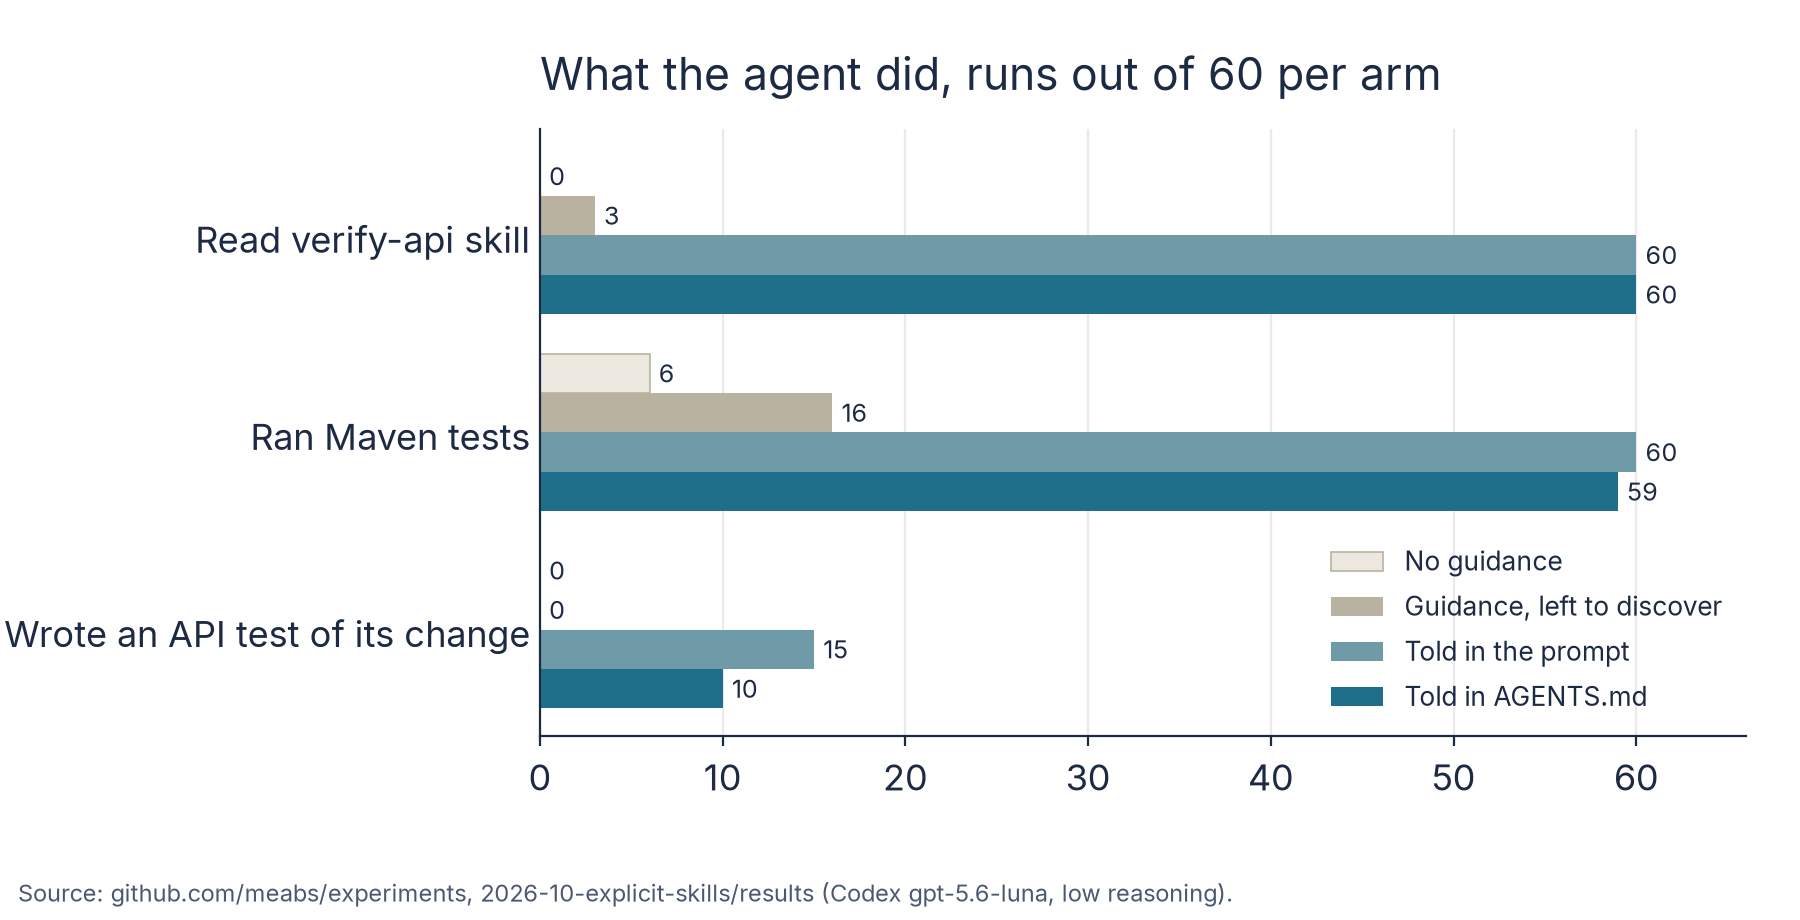
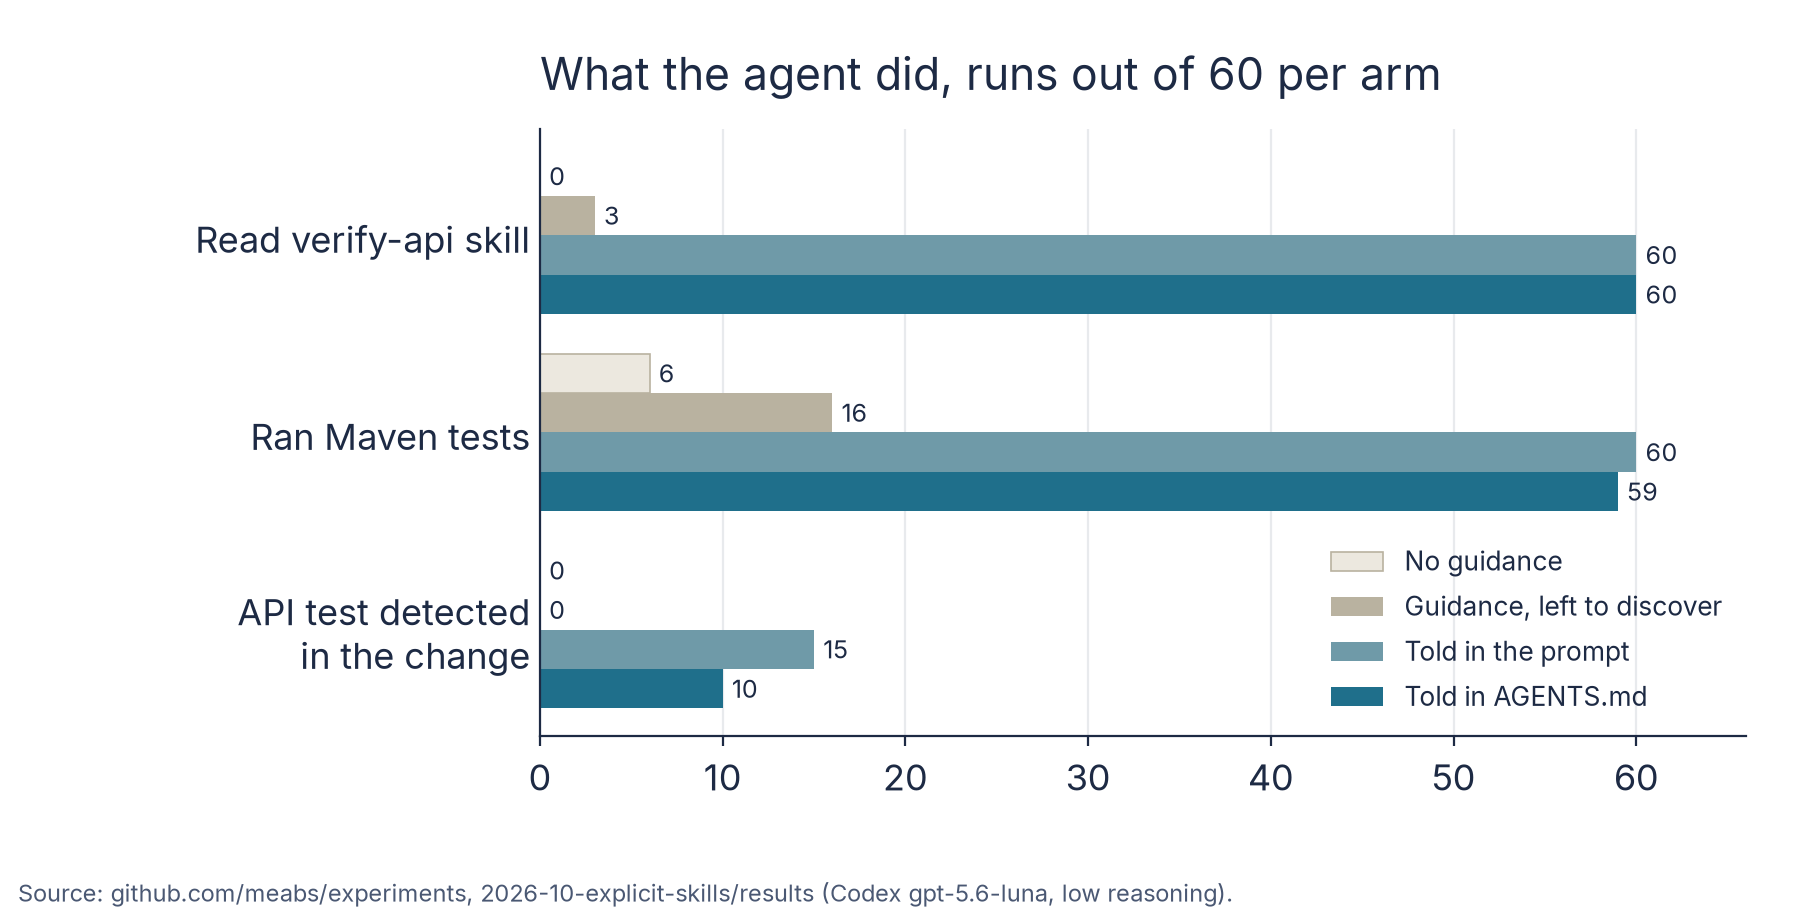
ESK: lead with reading vs doing, add cross-experiment chart, soften prompt vs AGENTS.md wording, label test counts as detected
Claude-Session: https://claude.ai/code/session_01DfQb985kHgrnPbscsHCh7U

Changed region(s): [[0.0, 0.6391, 0.3111, 0.7304]]

diff --git a/src/content/experiments/explicit-skills.md b/src/content/experiments/explicit-skills.md
@@ -1,12 +1,12 @@
 ---
 title: "Telling the agent to use its skills (experiment ESK)"
-description: "Told to use the repository's skills, the agent read them every time, but mostly ran a smoke test instead of testing its change; its changes were correct a little more often, not measurably, at about twice the cost."
+description: "Told to use the repository's skills, the agent read them every time, but mostly ran a smoke test instead of testing its change. Reading an instruction is not the same as carrying it out."
 date: 2026-10-22
-summary: "On 20 tasks in a Java online-shop backend, telling Codex to use its repository skills, in the prompt or in AGENTS.md, made it read the verification skill in every run (against 3 of 60 when left to find it) and raised the pass rate from 37 to 42 or 43 of 60, too little to rule out chance."
+summary: "On 20 tasks in a Java online-shop backend, telling Codex to use its repository skills, in the prompt or in AGENTS.md, made it read the verification skill in every run (against 3 of 60 when left to find it), but a test of its change was detected in only 10 to 15 runs; the pass rate rose from 37 to 42 or 43 of 60, too little to rule out chance."
 type: "Controlled trial"
 github:
   - label: "experiments"
-    href: "https://github.com/meabs/experiments/tree/b753910ec4d5e9439c81731c1b9f81e95b1c7842/2026-10-explicit-skills"
+    href: "https://github.com/meabs/experiments/tree/65df2e973c3c136c9489e896e8dab48fd96ce2af/2026-10-explicit-skills"
 draft: false
 experimentId: "ESK"
 question: "With the same repository guidance in place, does telling the agent to use its skills, in the prompt or in AGENTS.md, raise the share of changes that pass independent acceptance tests?"
@@ -18,14 +18,25 @@ agents:
     settings: "low reasoning, isolation on"
 runs: 240
 repo: "https://github.com/meabs/experiments"
-report: "https://github.com/meabs/experiments/blob/b753910ec4d5e9439c81731c1b9f81e95b1c7842/2026-10-explicit-skills/REPORT.md"
-prediction: "https://github.com/meabs/experiments/blob/b753910ec4d5e9439c81731c1b9f81e95b1c7842/2026-10-explicit-skills/README.md"
+report: "https://github.com/meabs/experiments/blob/65df2e973c3c136c9489e896e8dab48fd96ce2af/2026-10-explicit-skills/REPORT.md"
+prediction: "https://github.com/meabs/experiments/blob/65df2e973c3c136c9489e896e8dab48fd96ce2af/2026-10-explicit-skills/README.md"
 topics:
   - verification
   - measurement
 publishedOn: 2026-10-22
 findings:
   - id: "ESK-1"
+    statement: "Reading is not doing: told to follow the verification skill, the agent read it in every run, but a test of its change was detected in only 15 of 60 runs (prompt) and 10 of 60 (AGENTS.md); most runs ran the skill's smoke-test example instead"
+    metric: "runs with an API-level test detected in the change, when told"
+    value: "15/60 and 10/60"
+    n: 120
+    limits:
+      - "tests detected from the change (diff), not checked by hand"
+      - "one model at low reasoning effort"
+    source: "https://github.com/meabs/experiments/blob/65df2e973c3c136c9489e896e8dab48fd96ce2af/2026-10-explicit-skills/REPORT.md"
+    status: current
+    featured: false
+  - id: "ESK-2"
     statement: "Telling the agent to use its skills did not measurably raise the pass rate: 42 of 60 runs passed when told in the prompt and 43 when told in AGENTS.md, against 37 with no guidance and 39 with the guidance left to discover"
     metric: "told in AGENTS.md vs none, mean per-task difference in pass rate"
     value: "+10.0 pts"
@@ -38,28 +49,18 @@ findings:
       - "one repository"
       - "one model at low reasoning effort"
       - "one set of guidance, written by an agent"
-    source: "https://github.com/meabs/experiments/blob/b753910ec4d5e9439c81731c1b9f81e95b1c7842/2026-10-explicit-skills/REPORT.md"
-    status: current
-    featured: false
-  - id: "ESK-2"
-    statement: "Told to follow the verification skill, the agent read it in every run, but wrote a test of its change in only 15 of 60 (prompt) and 10 of 60 (AGENTS.md); most runs ran the skill's example smoke test instead"
-    metric: "runs that wrote an API-level test of the change, when told"
-    value: "15/60 and 10/60"
-    n: 120
-    limits:
-      - "counted from the commands the agent ran and the change it left"
-      - "one model at low reasoning effort"
-    source: "https://github.com/meabs/experiments/blob/b753910ec4d5e9439c81731c1b9f81e95b1c7842/2026-10-explicit-skills/REPORT.md"
+    source: "https://github.com/meabs/experiments/blob/65df2e973c3c136c9489e896e8dab48fd96ce2af/2026-10-explicit-skills/REPORT.md"
     status: current
     featured: false
   - id: "ESK-3"
-    statement: "A one-line entry in AGENTS.md got the verification skill read as reliably as an instruction in the prompt, and the two gave the same pass rate"
+    statement: "A one-line entry in AGENTS.md got the verification skill read as reliably as an instruction in the prompt; the pass rates were similar (43 and 42 of 60), and the experiment cannot tell whether placement matters"
     metric: "runs that read the verification skill: AGENTS.md entry, prompt, left to discover"
     value: "60/60, 60/60, 3/60"
     n: 180
     limits:
       - "the AGENTS.md arm ran later than the others"
-    source: "https://github.com/meabs/experiments/blob/b753910ec4d5e9439c81731c1b9f81e95b1c7842/2026-10-explicit-skills/REPORT.md"
+      - "the two instructions differed: the prompt named all three skills, AGENTS.md only the verification skill"
+    source: "https://github.com/meabs/experiments/blob/65df2e973c3c136c9489e896e8dab48fd96ce2af/2026-10-explicit-skills/REPORT.md"
     status: current
     featured: false
   - id: "ESK-4"
@@ -74,7 +75,7 @@ findings:
     limits:
       - "list prices"
       - "one repository"
-    source: "https://github.com/meabs/experiments/blob/b753910ec4d5e9439c81731c1b9f81e95b1c7842/2026-10-explicit-skills/REPORT.md"
+    source: "https://github.com/meabs/experiments/blob/65df2e973c3c136c9489e896e8dab48fd96ce2af/2026-10-explicit-skills/REPORT.md"
     status: current
     featured: false
 ---
@@ -92,7 +93,7 @@ The agent read two of the skills every time. It opened the third, `verify-api`, 
 
 ## Prediction
 
-Before any run, I wrote down and published the design, the hypotheses and how the results would be compared ([README.md](https://github.com/meabs/experiments/blob/b753910ec4d5e9439c81731c1b9f81e95b1c7842/2026-10-explicit-skills/README.md)).
+Before any run, I wrote down and published the design, the hypotheses and how the results would be compared ([README.md](https://github.com/meabs/experiments/blob/65df2e973c3c136c9489e896e8dab48fd96ce2af/2026-10-explicit-skills/README.md)).
 
 The hypotheses: told in the prompt, a larger share of runs pass than with no guidance (H1), and than with the guidance left to discover (H2).
 
@@ -165,6 +166,36 @@ Findings ESK-1 to ESK-4 are at the top of the page. In short:
 
 Tokens are the units of text the model reads and writes, and what you pay for; M is millions. Costs are estimates at list prices; the 240 runs cost $6.70 together. Run time is the median.
 
+### Reading is not doing
+
+This is the main result. Telling the agent to use the skills changed what it read. It changed much less what it did.
+
+<figure class="guide-figure">
+
+![Read the skill, wrote a test, passed, across both experiments](/guide-images/chart-esk-readdo.png)
+
+<figcaption>Runs out of 60 per arm, in the repository skills experiment (top two rows) and this one. Told to use the skills, the agent read the verification skill in every run. A test of its change was detected in 15 and 10 runs. The pass rate barely moved.</figcaption>
+
+</figure>
+
+<figure class="guide-figure">
+
+![What the agent did, by arm](/guide-images/chart-esk-process.png)
+
+<figcaption>Told to use the skills, in the prompt or in AGENTS.md, the agent read the verification skill and ran tests in almost every run. A test of its own change was detected in only 15 and 10 runs.</figcaption>
+
+</figure>
+
+- **It read the skill.** Told, in either place, the agent opened `verify-api` in all 60 runs. Left to discover it, 3.
+- **It took the shortcut.** Most runs then ran the skill's smoke test, which checks only that the shop starts. It ran in 49 runs told in the prompt and 47 told in `AGENTS.md`. In 23 and 37 runs it was the only test the agent ran. The step the skill asks for next, writing a test of the change, was detected in 15 and 10 runs.
+- **It did not ignore the skill.** It took the action in it that looked like verification and was easiest, rather than the one that checks the change.
+- **It said so.** Its end-of-run notes often admitted the gap, for example: "the specific customer address PATCH/GET flow was not covered by an existing integration test". It still reported success.
+- **A test went with passing.** Runs with a test of their change passed 13 of 15 (prompt) and 9 of 10 (`AGENTS.md`), against 29 of 45 and 34 of 50 that did not. This does not show that the test caused the pass: the agent may write one more readily when it already understands the task.
+- **What it claimed.** Every failed run, in all four arms (79 runs), still said its change worked.
+- **Neighbour breaks.** Being told to use `safe-change`, which says to check every other user of shared code, did not prevent them: 4 to 5 runs broke a neighbouring feature in each arm.
+
+How a test was counted: the change the agent left adds a test that calls the API (using `TestRestTemplate`, `ServicesTestSupport` or `MockMvc`). This is an automatic check of the code, not a reading of each test by hand. It shows a test was added, not that it exercised the change.
+
 ### How the arms were compared
 
 The unit is the task, not the run, because some tasks are simply harder than others. For each task, I took the number of passing runs in one arm (0 to 3) and subtracted the number in the other. To ask whether the result could easily be chance, the test flips the sign of each task's difference in every possible way, and counts how often the total comes out at least as large as the real one. Because there are two tests in each pair, the counts are adjusted upwards (Holm's method).
@@ -178,7 +209,7 @@ The unit is the task, not the run, because some tasks are simply harder than oth
 
 None is close to the usual 0.05 threshold. Being told points the right way in all four, but a gain of 8 to 10 points is smaller than this experiment can show.
 
-The two places for the instruction made no difference: told in the prompt and told in `AGENTS.md` came out the same on 17 tasks, 42 against 43 runs. Left to discover, the guidance gained 2 runs over none, as in the repository skills experiment (40 against 38 there).
+Told in the prompt and told in `AGENTS.md` gave similar results: 42 and 43 runs, the same on 17 tasks. That does not show placement makes no difference. The experiment is too small to show it, and the two instructions differed: the prompt named all three skills, `AGENTS.md` only the verification one. Left to discover, the guidance gained 2 runs over none, as in the repository skills experiment (40 against 38 there).
 
 <figure class="guide-figure">
 
@@ -187,23 +218,6 @@ The two places for the instruction made no difference: told in the prompt and to
 <figcaption>Runs passed of 3, per task and arm. Most tasks came out the same in every arm. Being told helped most on SUPERDEL (1 to 3 of 3) and TAXRATE (0 to 3 of 3). On CUSTREVIEW, every arm with guidance passed 0 of 3, against 2 without; in the repository skills experiment, the guidance arm passed it 2 of 3.</figcaption>
 
 </figure>
-
-### What the agent did when told
-
-<figure class="guide-figure">
-
-![What the agent did, by arm](/guide-images/chart-esk-process.png)
-
-<figcaption>Told to use the skills, in the prompt or in AGENTS.md, the agent read the verification skill and ran tests in almost every run. It wrote a test of its own change in only 15 and 10 runs.</figcaption>
-
-</figure>
-
-- **It read the skill.** Told, in either place, the agent opened `verify-api` in all 60 runs. Left to discover it, 3.
-- **It took the shortcut.** Most runs then ran the skill's smoke test, which checks only that the shop starts. It ran in 49 runs told in the prompt and 47 told in `AGENTS.md`. In 23 and 37 runs it was the only test the agent ran. The step the skill asks for next, writing a test of the change, was done in 15 and 10 runs.
-- **It said so.** Its end-of-run notes often admitted the gap, for example: "the specific customer address PATCH/GET flow was not covered by an existing integration test". It still reported success.
-- **Writing a test went with passing.** Runs that wrote a test of their change passed 13 of 15 (prompt) and 9 of 10 (`AGENTS.md`), against 29 of 45 and 34 of 50 that did not. This does not show that the test caused the pass: the agent may write one more readily when it already understands the task.
-- **What it claimed.** Every failed run, in all four arms (79 runs), still said its change worked.
-- **Neighbour breaks.** Being told to use `safe-change`, which says to check every other user of shared code, did not prevent them: 4 to 5 runs broke a neighbouring feature in each arm.
 
 ### Checks on the runs
 
@@ -220,7 +234,8 @@ Before writing up, I checked these counts against the record of every command th
 - One codebase; one agent and model; low reasoning effort only.
 - One set of guidance, written by an agent. The verification skill puts the smoke-test command first and the advice to write a focused test second. A skill that gave only the second might be followed more fully. This experiment cannot say.
 - The instruction adds emphasis on checking, not only a pointer to the skills. Any gain could come from either.
-- The `AGENTS.md` arm ran later than the other three, in a second batch.
+- The `AGENTS.md` arm ran later than the other three, in a second batch. Its instruction named only the verification skill, so the prompt and `AGENTS.md` arms are not a pure test of placement.
+- Tests of the change were detected automatically from the code the agent left, not checked by hand.
 - Only 2 tasks were neighbour breaks.
 - The tasks were chosen in the verification experiment using runs without guidance, which slightly favours that arm.
 - I wrote the tasks and hidden tests; all are published for checking.
@@ -238,11 +253,11 @@ Before writing up, I checked these counts against the record of every command th
 
 Telling the agent to use the guidance gave the largest gain of anything written down so far, but still not a measurable one, and it doubled the cost per correct change. Letting the agent think a little longer gained more, for less.
 
-If you want your agent to use a skill, one line in `AGENTS.md` is enough to get it read. Getting it followed is a different matter: here, the agent read the instruction to write a test, and ran the example instead.
+If you want your agent to read a skill, one line in `AGENTS.md` was enough here. Getting it followed is a different matter: the agent read the instruction to write a test, and mostly ran the example instead.
 
 ## Reproduce
 
-Everything is in [experiments/2026-10-explicit-skills](https://github.com/meabs/experiments/tree/b753910ec4d5e9439c81731c1b9f81e95b1c7842/2026-10-explicit-skills):
+Everything is in [experiments/2026-10-explicit-skills](https://github.com/meabs/experiments/tree/65df2e973c3c136c9489e896e8dab48fd96ce2af/2026-10-explicit-skills):
 
 - the guidance exactly as used (`arms/guidance/`, and `arms/guidance-agentsmd/` with the extra entry);
 - the prompt instruction (`arms/explicit-prefix.md`);
